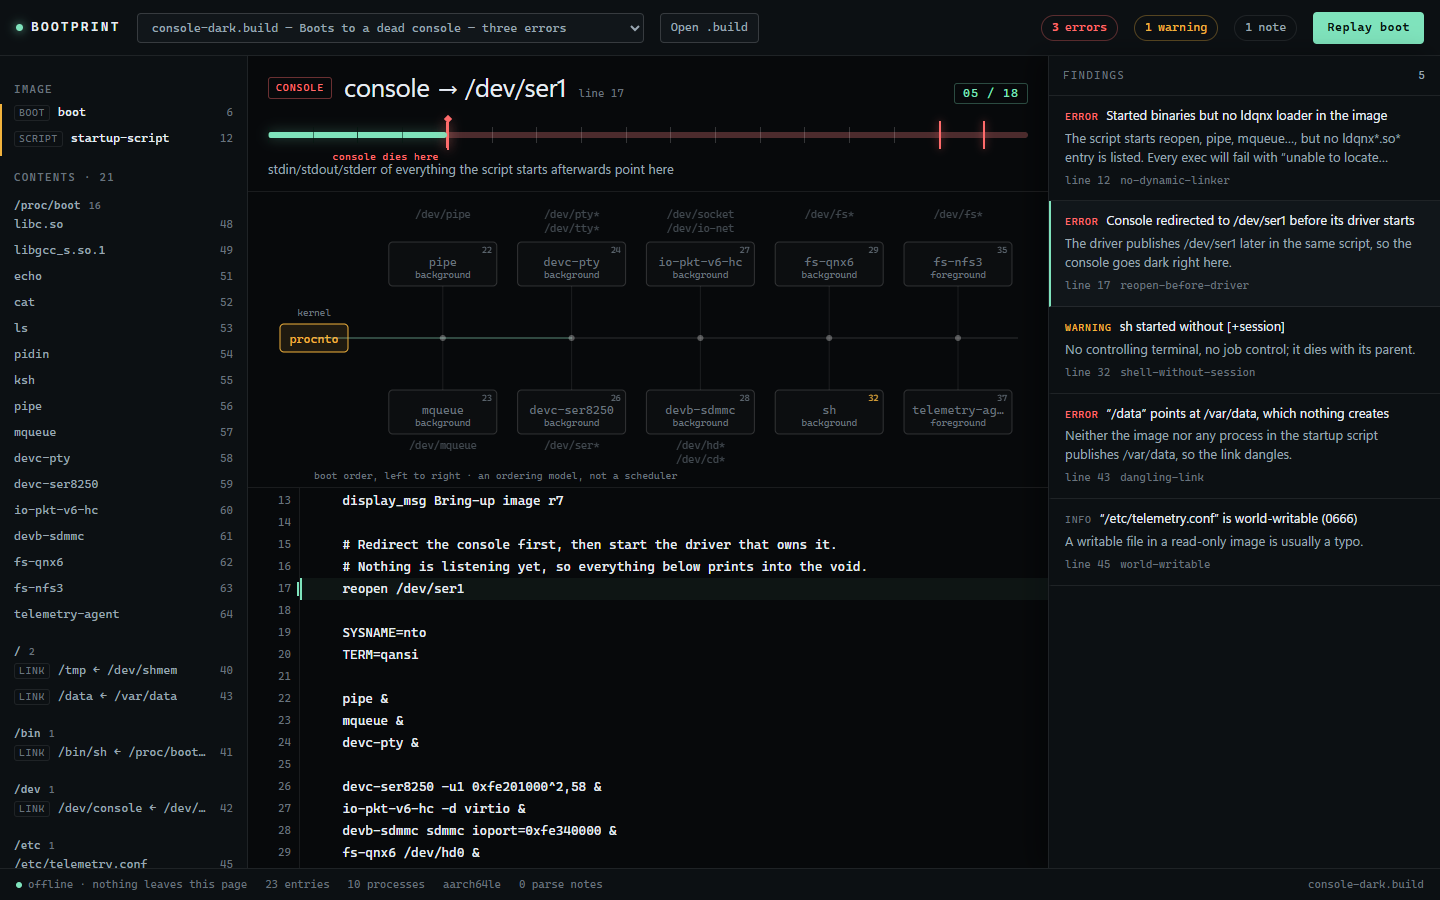
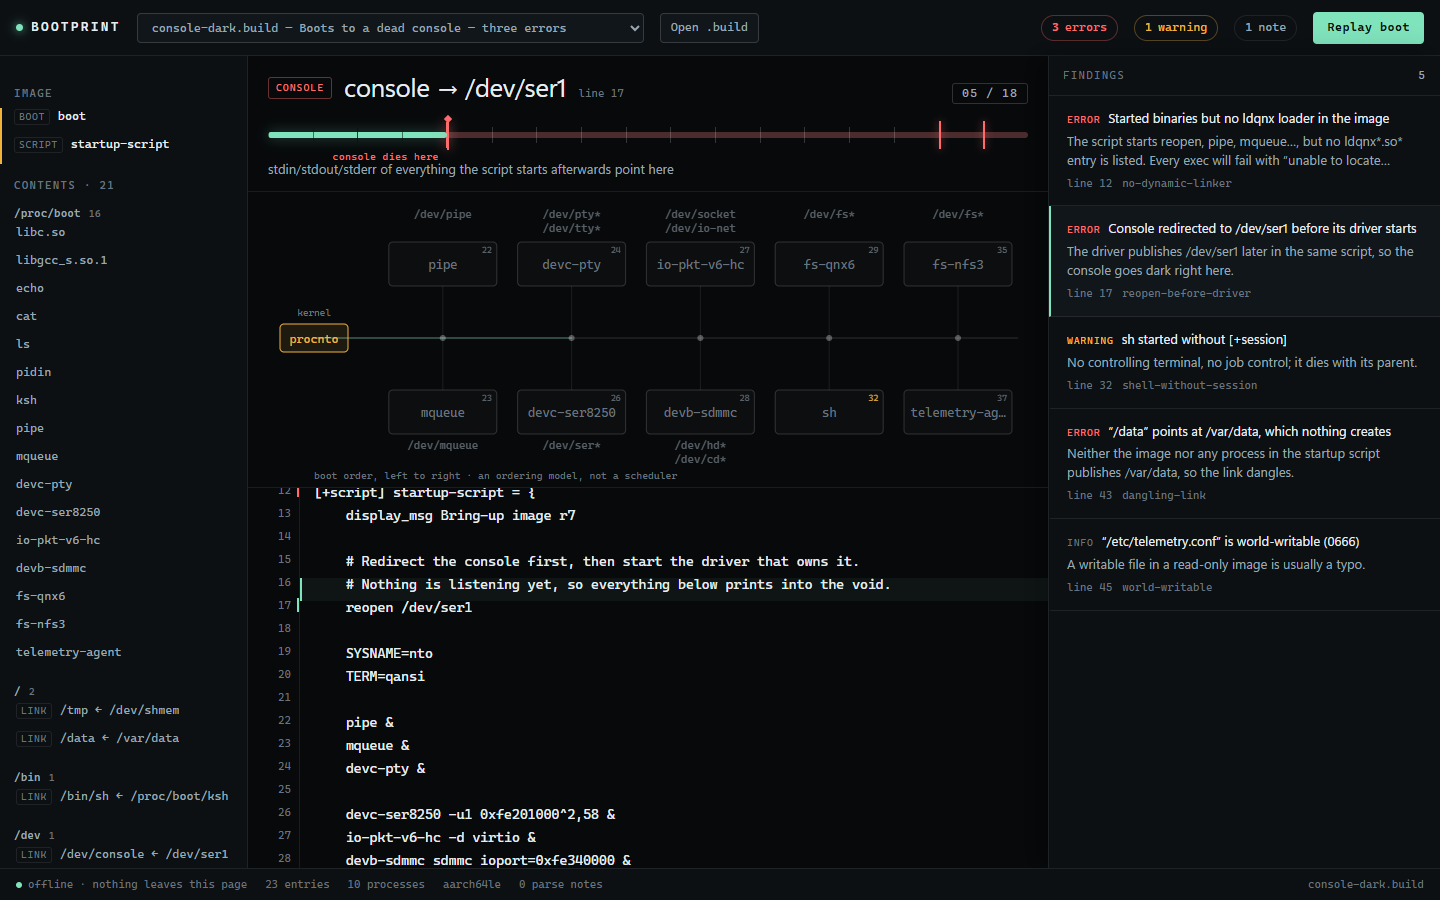
Third pass: attack density, not layout
Both blind judges named the same cause — tiny labels, many competing accents.
So: micro labels up one step, per-row line numbers and the bg/fg sublabel gone,
device labels lose their mint until they are actually missing, rows gain air.

diff --git a/src/ui/Topology.tsx b/src/ui/Topology.tsx
@@ -115,6 +115,7 @@ export function Topology({ replay, active, findings }: Props) {
                 stroke={stroke(s)}
                 strokeWidth={s === 'current' ? 2 : 1}
               />
+              {p.session ? <circle cx={x - chipW / 2 + 9} cy={chipTop + 9} r={2.6} fill="none" stroke="var(--mint)" strokeOpacity={0.7} /> : null}
               <text
                 x={x + chipW / 2 - 5}
                 y={chipTop + 11}
@@ -126,12 +127,8 @@ export function Topology({ replay, active, findings }: Props) {
               >
                 {p.line}
               </text>
-              <text x={x} y={chipTop + 24} textAnchor="middle" fontFamily="var(--mono)" fontSize="12" fill={label(s)}>
+              <text x={x} y={chipTop + 27} textAnchor="middle" fontFamily="var(--mono)" fontSize="12.5" fill={label(s)}>
                 {name}
-              </text>
-              <text x={x} y={chipTop + 36} textAnchor="middle" fontFamily="var(--mono)" fontSize="9.5" fill="var(--faint)">
-                {p.background ? 'background' : 'foreground'}
-                {p.session ? ' · session' : ''}
               </text>
 
               {p.provides.slice(0, 2).map((d, k) => (
@@ -141,9 +138,9 @@ export function Topology({ replay, active, findings }: Props) {
                   y={(above ? chipTop - 24 : chipTop + CHIP_H + 15) + k * 14}
                   textAnchor="middle"
                   fontFamily="var(--mono)"
-                  fontSize="10.5"
-                  fill={s === 'pending' ? 'var(--faint)' : 'var(--mint)'}
-                  opacity={s === 'pending' ? 0.6 : 0.95}
+                  fontSize="11"
+                  fill={s === 'alarm' ? 'var(--alarm)' : 'var(--dim)'}
+                  opacity={s === 'pending' ? 0.55 : 0.9}
                 >
                   {d}
                 </text>

diff --git a/src/styles/global.css b/src/styles/global.css
@@ -22,7 +22,7 @@
   --findings: 392px;
   --bar: 56px;
   --status: 32px;
-  --row: 22px;
+  --row: 23px;
 }
 
 * {
@@ -187,7 +187,7 @@ button {
   border-right: 1px solid var(--line);
   background: var(--panel);
   overflow-y: auto;
-  padding: 12px 0 24px;
+  padding: 16px 0 28px;
 }
 
 .rail h2 {
@@ -204,8 +204,8 @@ button {
   display: flex;
   align-items: baseline;
   gap: 8px;
-  height: 26px;
-  padding: 0 14px;
+  height: 28px;
+  padding: 0 16px;
   font-family: var(--mono);
   font-size: 12px;
   color: var(--dim);
@@ -225,9 +225,7 @@ button {
 }
 
 .rail-item .ln {
-  margin-left: auto;
-  color: var(--faint);
-  font-size: 11px;
+  display: none;
 }
 
 .rail-item.pinned {
@@ -440,10 +438,10 @@ button {
   font-family: var(--mono);
   font-size: 12px;
   letter-spacing: 0.08em;
-  color: var(--mint);
-  border: 1px solid rgba(127, 227, 188, 0.3);
+  color: var(--dim);
+  border: 1px solid var(--line-strong);
   border-radius: 3px;
-  padding: 1px 8px;
+  padding: 1px 9px;
 }
 
 .topology {
@@ -533,9 +531,9 @@ button {
   background: transparent;
   color: var(--text);
   font-family: var(--mono);
-  font-size: 13px;
+  font-size: 13.5px;
   line-height: var(--row);
-  padding: 10px 20px 40px 12px;
+  padding: 12px 20px 40px 14px;
   tab-size: 4;
   white-space: pre;
   overflow: auto;
@@ -581,7 +579,7 @@ button {
   display: block;
   width: 100%;
   text-align: left;
-  padding: 10px 14px 12px;
+  padding: 13px 16px 14px;
   border-bottom: 1px solid var(--line);
   border-left: 2px solid transparent;
 }

diff --git a/docs/04-PROOF.md b/docs/04-PROOF.md
@@ -69,9 +69,35 @@ line numbers inside the chips, dropped the console overlay.
 
 | Judge | Ranking | Ours |
 |---|---|---|
-| glm5.3f (AME-1337) | D > E > F > **B** > A > G > C | 4 / 7, above 3 references |
-| Fable5.1 (AME-1335) | _pending_ | — |
-| gpt-6.1-sol (AME-1336) | _pending_ | — |
+| glm5.3f (AME-1337) | D > E > F > **B** > A > G > C | 4 / 7, above 3 references — pass |
+| gpt-6.1-sol (AME-1336) | E > D > F > A > **B** > C > G | 5 / 7, above 2 references — **fail** |
+| Fable5.1 (AME-1335) | run failed: credential error, cancelled | — |
+
+gpt's reason: *"It is visually dense, with tiny labels, thin dividers, and many
+competing accents that make first-glance scanning less effortless."*
+
+**Round 2 verdict: not passed (one judge, one fail).** The gate requires every
+judge to place it above at least three references.
+
+### Round 3 — the approach changed, not the graph
+
+Both judges named the same cause, so the third pass attacked density rather than
+layout:
+
+- every micro label went up one step (9.5 → 10.5–11 px); the editor to 13.5 px
+  and a 23 px line height;
+- three competing elements were removed: the per-row line numbers in the contents
+  rail, the `background/foreground` sublabel inside each chip (a small ring now
+  marks `[+session]`), and the mint colour on device labels (they are `--dim`
+  until they are actually missing);
+- the step counter lost its mint border; rows and findings gained 2–3 px of air.
+
+Key: `A=raycast B=linear C=paperclips D=stripe E=adarkroom F=ours G=vercel`
+
+| Judge | Ranking | Ours |
+|---|---|---|
+| gpt-6.1-sol (AME-1338) | _pending_ | — |
+| glm5.3f (AME-1339) | _pending_ | — |
 
 ### Honest read of the gate
 

diff --git a/proof/rank/KEY3.md b/proof/rank/KEY3.md
@@ -1,0 +1,9 @@
+# Round 3 key (do not show judges)
+
+A = raycast
+B = linear
+C = paperclips
+D = stripe
+E = adarkroom
+F = ours (bootprint)
+G = vercel
